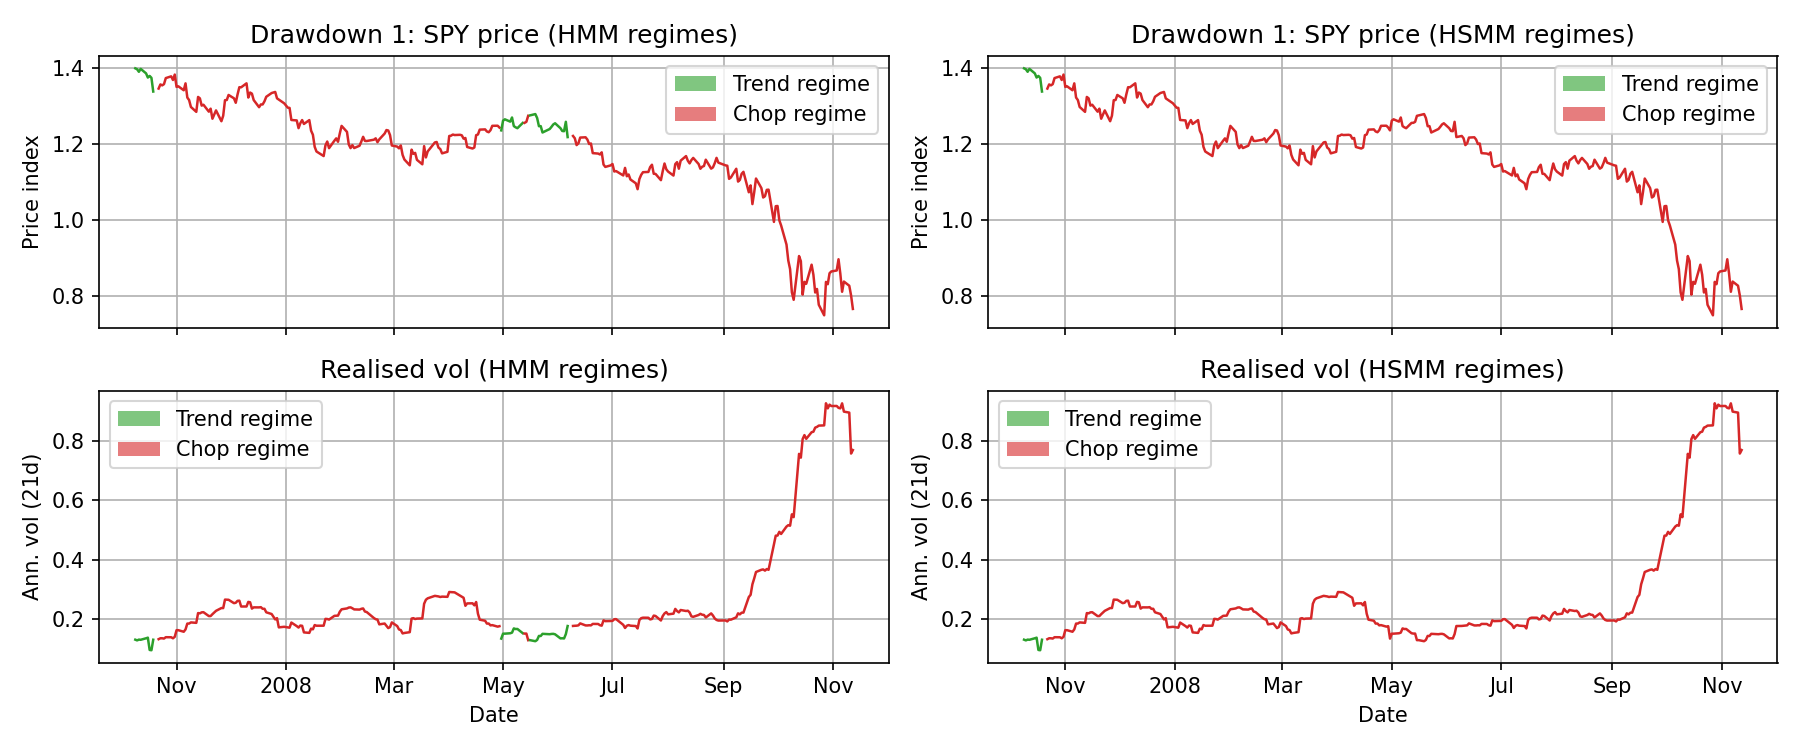
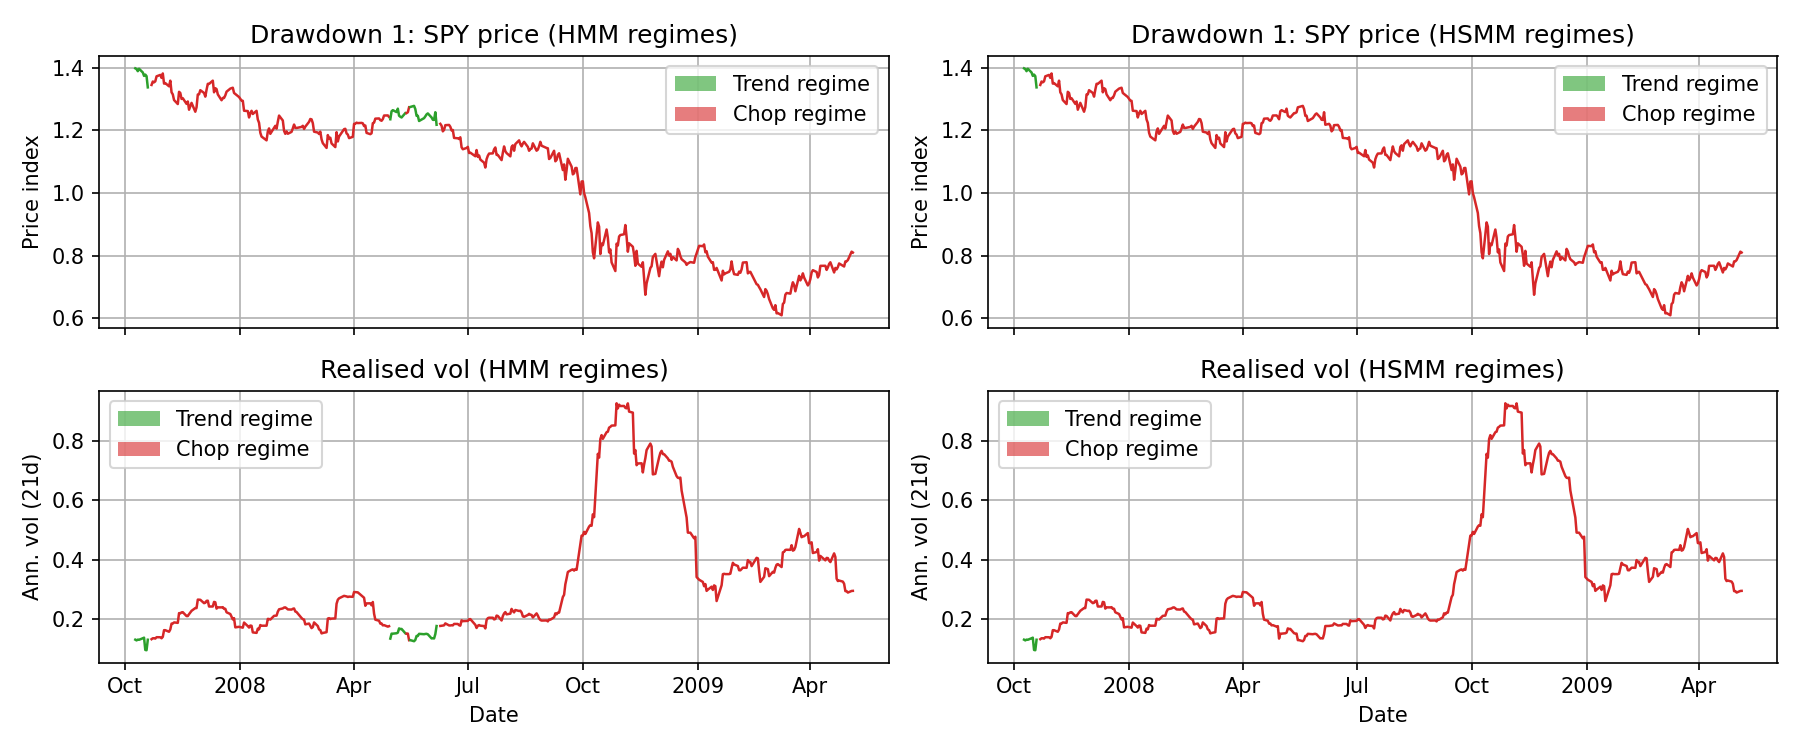
Measure persistent drawdowns to the true trough; disclose price-only returns and return concentration
The 2007-09 episode stopped at the first dip below -25% (Sep 2008, -25.5%) and the
rest of the crash was dropped by the 300-day cap. Persistent episodes now run from
the peak to the lowest close before SPY regains it (2008-09: -56.5%; 2022 trough
moves to 12 Oct). Spike detection is unchanged.

diff --git a/src/analysis.py b/src/analysis.py
@@ -132,13 +132,17 @@ def _peak_indices(eq: pd.Series) -> np.ndarray:
 
 def _drawdown_episodes(eq: pd.Series, vol_21: pd.Series, threshold: float, min_duration: int,
                        max_duration: int, tail_extension_days: int,
-                       exclude_below: float | None = None) -> pd.DataFrame:
+                       exclude_below: float | None = None,
+                       whole_drawdown: bool = False) -> pd.DataFrame:
     """
     Episodes where the drawdown falls below `threshold`:
     peak = running peak before the episode, trough = lowest point in the run below
-    threshold, end = trough + tail_extension_days. Episodes outside
-    [min_duration, max_duration] (peak to end) are dropped, as are runs that also
-    fall below `exclude_below`. Overlapping episodes keep the earliest one.
+    threshold (with whole_drawdown, the lowest point before the market regains
+    that peak, so brief recoveries above threshold do not split an episode),
+    end = trough + tail_extension_days. Episodes outside
+    [min_duration, max_duration] (peak to end; no upper limit if max_duration is
+    None) are dropped, as are episodes that also fall below `exclude_below`.
+    Overlapping episodes keep the earliest one.
     """
     dd = eq / eq.cummax() - 1.0
     below = dd <= threshold
@@ -152,19 +156,21 @@ def _drawdown_episodes(eq: pd.Series, vol_21: pd.Series, threshold: float, min_d
             continue
 
         run_start = i
-        while i + 1 < n and below.iloc[i + 1]:
-            i += 1
+        peak_idx = peaks[run_start]
         run_end = i
+        while i + 1 < n and (below.iloc[i + 1] or (whole_drawdown and peaks[i + 1] == peak_idx)):
+            i += 1
+            if below.iloc[i]:
+                run_end = i
 
         if exclude_below is not None and (dd.iloc[run_start: run_end + 1] <= exclude_below).any():
             i += 1
             continue
 
-        peak_idx = peaks[run_start]
         trough_idx = run_start + int(eq.iloc[run_start: run_end + 1].values.argmin())
         end_idx = min(trough_idx + tail_extension_days, n - 1)
         duration = end_idx - peak_idx + 1
-        if min_duration <= duration <= max_duration:
+        if min_duration <= duration and (max_duration is None or duration <= max_duration):
             episodes.append({
                 "peak_date": eq.index[peak_idx],
                 "trough_date": eq.index[trough_idx],
@@ -189,10 +195,10 @@ def _drop_overlapping(episodes: pd.DataFrame) -> pd.DataFrame:
 
 
 def find_persistent_drawdowns(eq_spy, vol_21, dd_threshold=-0.25, min_duration=60,
-                              max_duration=300, tail_extension_days=40, vol_quantile=0.75):
+                              max_duration=None, tail_extension_days=40, vol_quantile=0.75):
     """Long drawdowns whose average volatility is above the vol_quantile of the full sample."""
     eps = _drawdown_episodes(eq_spy.dropna(), vol_21, dd_threshold, min_duration,
-                             max_duration, tail_extension_days)
+                             max_duration, tail_extension_days, whole_drawdown=True)
     eps = eps[eps["avg_vol_21"] >= vol_21.dropna().quantile(vol_quantile)]
     return _drop_overlapping(eps)
 

diff --git a/README.md b/README.md
@@ -1,6 +1,6 @@
 # Does regime duration matter? HMM vs HSMM for strategy allocation
 
-Individual research paper, McGill University (FINE 547), December 2025; revised October 2026.
+Individual research paper, McGill University (FINE 547), December 2025; revised November 2026.
 **[Read the paper (PDF)](report/hmm_vs_hsmm_regime_switching.pdf)**
 
 A standard hidden Markov model assumes regimes are memoryless: the chance of leaving
@@ -82,13 +82,14 @@ lengthening regimes.
 ### Behaviour in drawdowns
 
 Episodes are detected by an algorithm, not chosen by hand, and every detected episode is
-reported.
+reported. A persistent drawdown runs from the market peak to the lowest close before SPY
+regains that peak.
 
 | Persistent drawdown | SPY drawdown | HMM return | HSMM return | Switches (HMM / HSMM) | Days defensive (HMM / HSMM) |
 |---|---:|---:|---:|---:|---:|
-| 2007–08 financial crisis | −25.5% | +99.1% | +90.6% | 5 / 1 | 88% / 97% |
+| 2007–09 financial crisis | −56.5% | +179.4% | +167.5% | 5 / 1 | 92% / 98% |
 | 2020 Covid crash | −34.1% | +44.0% | +44.0% | 1 / 1 | 94% / 94% |
-| 2022 rate-hike drawdown | −25.2% | +3.7% | +8.2% | 6 / 0 | 93% / 100% |
+| 2022 rate-hike drawdown | −25.4% | +3.3% | +8.6% | 6 / 1 | 93% / 100% |
 
 | Short spike | SPY drawdown | HMM return | HSMM return |
 |---|---:|---:|---:|
@@ -140,6 +141,12 @@ of extra alpha.
 - A single market, a single pair of sleeves, two states, and one duration family
   (shifted Poisson). Financing costs and short-sale constraints are ignored.
 - Few extreme episodes exist in the data, so the episode-level comparison is anecdotal.
+- The mean-reversion sleeve's return is concentrated in time: 2008 and 2020 contribute
+  about 60% of its summed daily returns, and without September 2008 to June 2009 its
+  Sharpe ratio falls from 0.69 to 0.57.
+- Stock returns are CRSP price returns excluding dividends (`DlyRetx`). This understates
+  the long-only momentum sleeve by roughly the index dividend yield and leaves the
+  long-short mean-reversion sleeve largely unaffected.
 
 ## Reproducing
 
@@ -150,7 +157,7 @@ pip install -r requirements.txt
 Rscript -e 'install.packages("mhsmm")'
 
 python src/hmm_backtest.py       # -> results/hmm_gated.csv      (~2 min)
-Rscript src/hsmm_backtest.R      # -> results/hsmm_regimes.csv   (~15 min: 228 refits, daily re-filtering)
+Rscript src/hsmm_backtest.R      # -> results/hsmm_regimes.csv   (~7 min: 228 refits, daily re-filtering)
 python src/hsmm_gate.py          # -> results/hsmm_gated.csv
 python src/analysis.py           # -> results/tables/, results/figures/
 python src/transaction_costs.py  # -> results/tables/transaction_costs.csv
